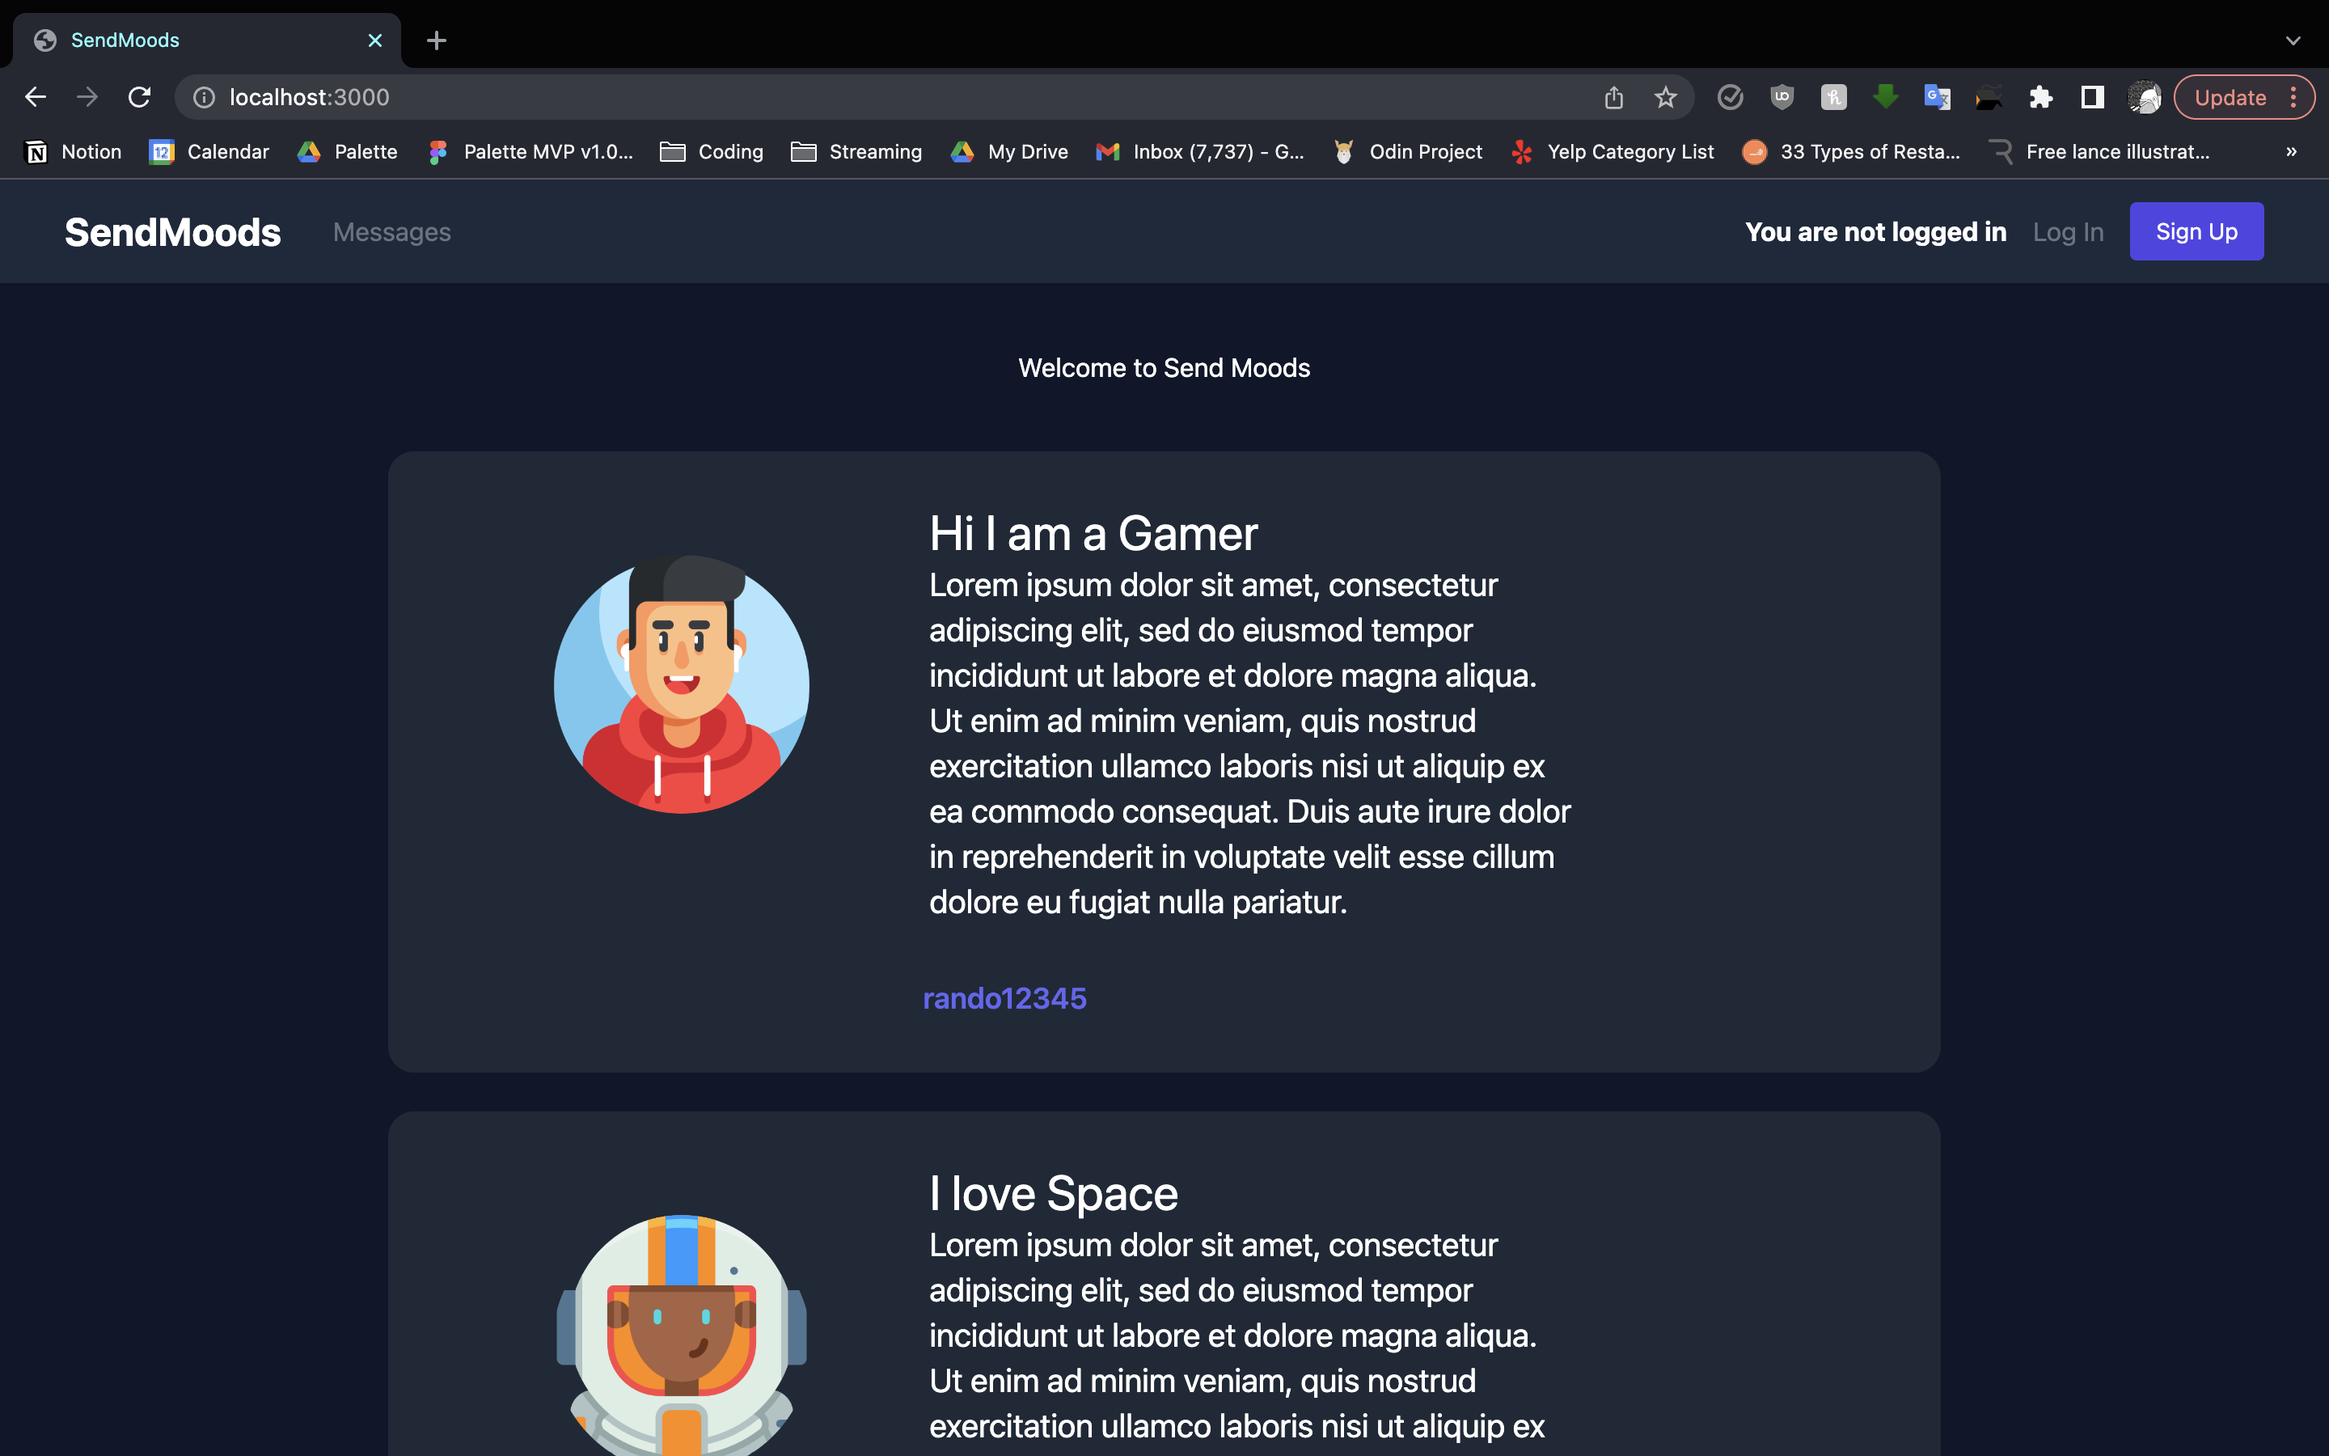
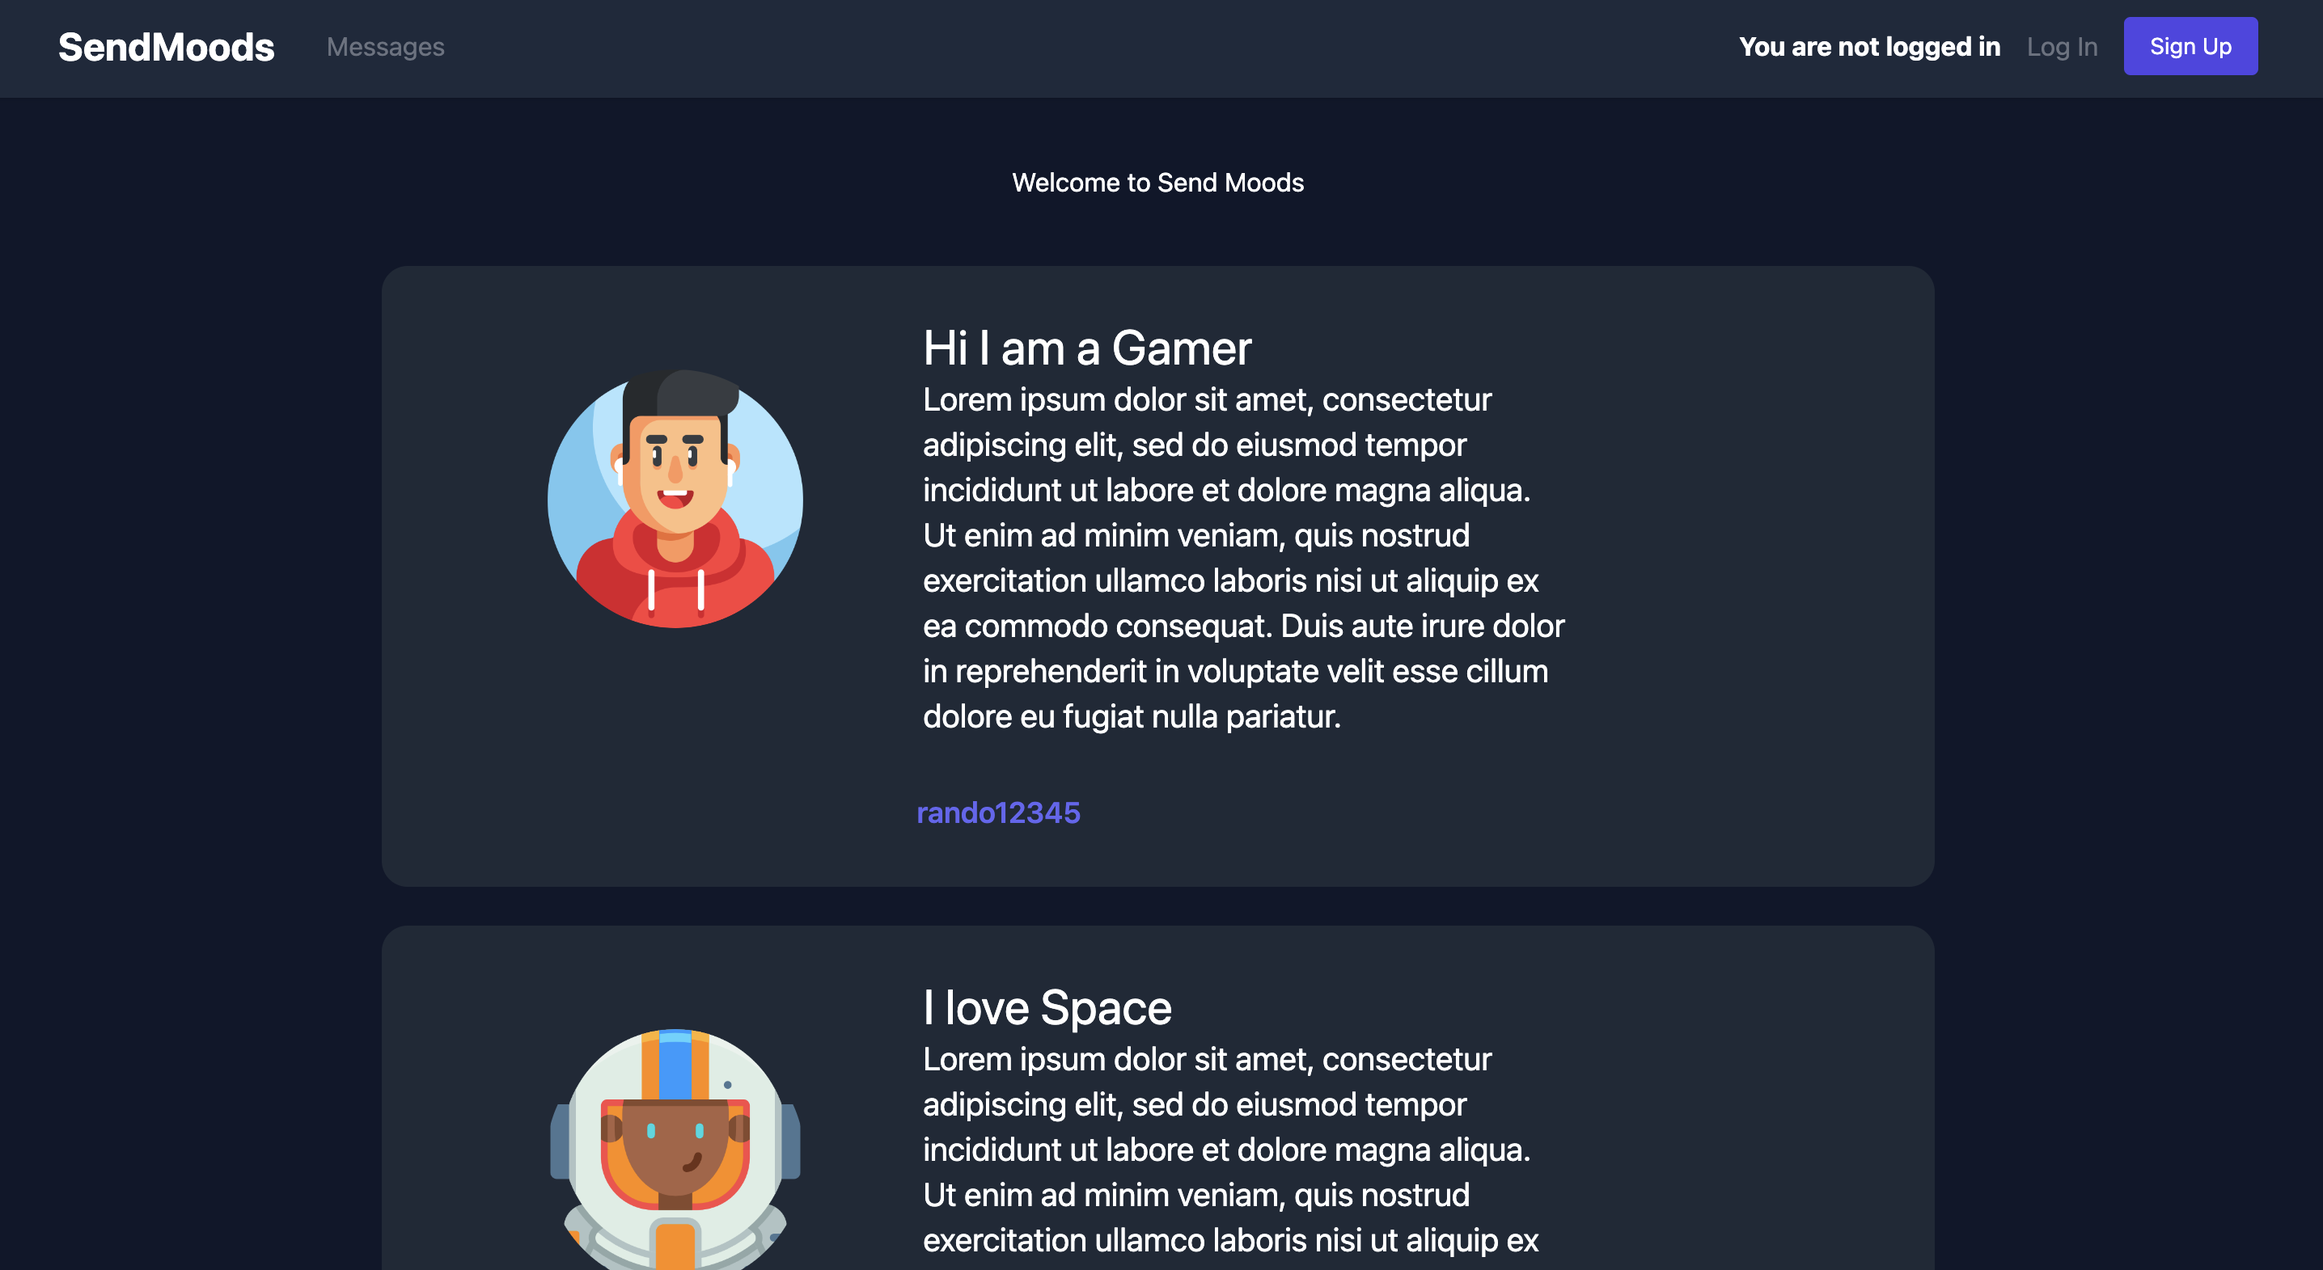
finished front end. Still need to fix routing for some links

diff --git a/src/pages/portfolio/Code/Code.tsx b/src/pages/portfolio/Code/Code.tsx
@@ -2,8 +2,6 @@ import React, { useState, useEffect, useRef } from "react";
 import iphonestock from "./images/iphoneStock.png";
 //@ts-ignore
 import hoverEffect from "hover-effect";
-import image from "./images/image.jpg";
-import image2 from "./images/image2.jpg";
 import overlay from "./images/overlay.png";
 import overlay2 from "./images/overlay2.png";
 import planetBackground from "./images/planetBackground.jpg";
@@ -11,21 +9,18 @@ import blogProject from "./images/blogProject.png";
 import blogProject2 from "./images/blogProject2.png";
 import membersOnly from "./images/membersOnly.png";
 import membersOnly2 from "./images/membersOnly2.png";
-
+import inventory from "./images/inventory.png";
+import inventory2 from "./images/inventory2.png";
+import shoppingCart from "./images/shoppingcart.png";
+import memoryCard from "./images/memoryCard.png";
+import weather from "./images/weatherApp.png";
+import task from "./images/task.png";
+import etchnsketch from "./images/etchnsketch.png";
 const code = () => {
-  // useEffect(() => {
-  //   var blogPhoto = new hoverEffect({
-  //     parent: document.querySelector("#blog-hover-photo"),
-  //     intensity: 0.3,
-  //     image1: blogProject,
-  //     image2: blogProject,
-  //     displacementImage: overlay,
-  //   });
-  // });
   useEffect(() => {
     var membersOnlyPhoto = new hoverEffect({
       parent: document.querySelector("#members-only-hover-photo"),
-      imagesRatio: 1,
+      imagesRatio: 0.3,
       intensity: 0.1,
       image1: membersOnly,
       image2: membersOnly2,
@@ -35,10 +30,70 @@ const code = () => {
   useEffect(() => {
     var image_animate = new hoverEffect({
       parent: document.querySelector("#blog-hover-photo"),
-      imagesRatio: 1,
+      imagesRatio: 0.4,
       intensity: 0.3,
       image1: blogProject,
       image2: blogProject2,
+      displacementImage: overlay,
+    });
+  });
+  useEffect(() => {
+    var image_animate = new hoverEffect({
+      parent: document.querySelector("#express-inventory-app"),
+      imagesRatio: 0.4,
+      intensity: 0.3,
+      image1: inventory2,
+      image2: inventory,
+      displacementImage: overlay,
+    });
+  });
+  useEffect(() => {
+    var image_animate = new hoverEffect({
+      parent: document.querySelector("#react-shopping-cart"),
+      imagesRatio: 0.4,
+      intensity: 0.3,
+      image1: shoppingCart,
+      image2: inventory,
+      displacementImage: overlay,
+    });
+  });
+  useEffect(() => {
+    var image_animate = new hoverEffect({
+      parent: document.querySelector("#memory-card"),
+      imagesRatio: 0.4,
+      intensity: 0.3,
+      image1: memoryCard,
+      image2: inventory,
+      displacementImage: overlay,
+    });
+  });
+  useEffect(() => {
+    var image_animate = new hoverEffect({
+      parent: document.querySelector("#weather-app"),
+      imagesRatio: 0.4,
+      intensity: 0.3,
+      image1: weather,
+      image2: inventory,
+      displacementImage: overlay,
+    });
+  });
+  useEffect(() => {
+    var image_animate = new hoverEffect({
+      parent: document.querySelector("#task-app"),
+      imagesRatio: 0.4,
+      intensity: 0.3,
+      image1: task,
+      image2: inventory,
+      displacementImage: overlay,
+    });
+  });
+  useEffect(() => {
+    var image_animate = new hoverEffect({
+      parent: document.querySelector("#etch-n-sketch"),
+      imagesRatio: 0.4,
+      intensity: 0.3,
+      image1: etchnsketch,
+      image2: inventory,
       displacementImage: overlay,
     });
   });
@@ -86,49 +141,91 @@ const code = () => {
             </div>
           </div>
         </div>
-      </div>
-      {/* <div className="w-full flex justify-center">
-        <div className="flex flex-col items-center  border border-gray-700 rounded-3xl backdrop-blur-3xl box-border p-10 bg-gradient-135 from-slate-900 to-transparent shadow sm:flex-row ">
-          <h4 className=" text-white absolute vertical-rl sm:visible invisible transform rotate-180">Members Only</h4>
-          <div className=" sm:h-[300px] sm:w-[700px] rounded-3xl overflow-hidden">
-            <div id="blog-hover-photo" className="h-full w-full" />
+        <div className=" mx-16 flex flex-col items-center border border-gray-700 rounded-3xl backdrop-blur-3xl box-border p-10 bg-gradient-135 from-slate-900 to-transparent shadow sm:flex-row ">
+          <div className=" sm:h-[300px] h-[250px] w-[200px]   sm:bg-auto sm:w-[800px] rounded-3xl overflow-hidden">
+            <div
+              id="express-inventory-app"
+              className=" flex justify-center items-center h-[300px] sm:h-[300px]  sm:w-full"
+            ></div>
           </div>
-          <div className="flex flex-col justify-between p-4 leading-normal">
-            <h5 className="mb-2 mx-16 w-1/2 text-2xl font-bold tracking-tight text-gray-900 dark:text-white">
-              Members Only
-            </h5>
-            <p className="mb-3 mx-16 font-normal text-gray-700 dark:text-gray-400">Members Only Project</p>
+          <div className="flex w-1/3 justify-center">
+            <div className="flex flex-col text-center  justify-center ">
+              <h5 className="mb-2 mt-8 sm:mt-0 sm:ml-6 ml-0 text-2xl font-bold text-white">Express Inventory App</h5>
+              <p className="mb-3  font-normal  sm:ml-6 ml-0 text-gray-400">Personal Inventory Application Project</p>
+            </div>
+          </div>
+        </div>
+        <div className=" mx-16 flex flex-col items-center border border-gray-700 rounded-3xl backdrop-blur-3xl box-border p-10 bg-gradient-135 from-slate-900 to-transparent shadow sm:flex-row ">
+          <div className=" sm:h-[300px] h-[250px] w-[200px]   sm:bg-auto sm:w-[800px] rounded-3xl overflow-hidden">
+            <div
+              id="react-shopping-cart"
+              className=" flex justify-center items-center h-[300px]  sm:h-[300px]  sm:w-full"
+            ></div>
+          </div>
+          <div className="flex w-1/3 justify-center">
+            <div className="flex flex-col text-center  justify-center ">
+              <h5 className="mb-2 mt-8 sm:mt-0 sm:ml-6 ml-0 text-2xl font-bold text-white">React Shopping Cart</h5>
+              <p className="mb-3  font-normal  sm:ml-6 ml-0 text-gray-400">Personal Shopping Cart Project</p>
+            </div>
+          </div>
+        </div>
+        <div className=" mx-16 flex flex-col items-center border border-gray-700 rounded-3xl backdrop-blur-3xl box-border p-10 bg-gradient-135 from-slate-900 to-transparent shadow sm:flex-row ">
+          <div className=" sm:h-[300px] h-[250px] w-[200px]   sm:bg-auto sm:w-[800px] rounded-3xl overflow-hidden">
+            <div
+              id="memory-card"
+              className=" flex justify-center items-center h-[300px]  sm:h-[300px]  sm:w-full"
+            ></div>
+          </div>
+          <div className="flex w-1/3 justify-center">
+            <div className="flex flex-col text-center  justify-center ">
+              <h5 className="mb-2 mt-8 sm:mt-0 sm:ml-6 ml-0 text-2xl font-bold text-white">Memory Card Game</h5>
+              <p className="mb-3  font-normal  sm:ml-6 ml-0 text-gray-400">Personal Memory Card Project</p>
+            </div>
+          </div>
+        </div>
+        <div className=" mx-16 flex flex-col items-center border border-gray-700 rounded-3xl backdrop-blur-3xl box-border p-10 bg-gradient-135 from-slate-900 to-transparent shadow sm:flex-row ">
+          <div className=" sm:h-[300px] h-[250px] w-[200px]   sm:bg-auto sm:w-[800px] rounded-3xl overflow-hidden">
+            <div
+              id="weather-app"
+              className=" flex justify-center items-center h-[300px] sm:bg-top sm:h-[300px]  sm:w-full"
+            ></div>
+          </div>
+          <div className="flex w-1/3 justify-center">
+            <div className="flex flex-col text-center  justify-center ">
+              <h5 className="mb-2 mt-8 sm:mt-0 sm:ml-6 ml-0 text-2xl font-bold text-white">Weather App</h5>
+              <p className="mb-3  font-normal  sm:ml-6 ml-0 text-gray-400">Personal Weather App Project</p>
+            </div>
+          </div>
+        </div>
+        <div className=" mx-16 flex flex-col items-center border border-gray-700 rounded-3xl backdrop-blur-3xl box-border p-10 bg-gradient-135 from-slate-900 to-transparent shadow sm:flex-row ">
+          <div className=" sm:h-[300px] h-[250px] w-[200px]   sm:bg-auto sm:w-[800px] rounded-3xl overflow-hidden">
+            <div
+              id="task-app"
+              className=" flex justify-center items-center h-[300px] sm:bg-top sm:h-[300px]  sm:w-full"
+            ></div>
+          </div>
+          <div className="flex w-1/3 justify-center">
+            <div className="flex flex-col text-center  justify-center ">
+              <h5 className="mb-2 mt-8 sm:mt-0 sm:ml-6 ml-0 text-2xl font-bold text-white">Task App</h5>
+              <p className="mb-3  font-normal  sm:ml-6 ml-0 text-gray-400">Personal Task App Project</p>
+            </div>
+          </div>
+        </div>
+        <div className=" mx-16 flex flex-col items-center border border-gray-700 rounded-3xl backdrop-blur-3xl box-border p-10 bg-gradient-135 from-slate-900 to-transparent shadow sm:flex-row ">
+          <div className=" sm:h-[300px] h-[250px] w-[200px]   sm:bg-auto sm:w-[800px] rounded-3xl overflow-hidden">
+            <div
+              id="etch-n-sketch"
+              className=" flex justify-center items-center h-[300px] sm:bg-top sm:h-[300px]  sm:w-full"
+            ></div>
+          </div>
+          <div className="flex w-1/3 justify-center">
+            <div className="flex flex-col text-center  justify-center ">
+              <h5 className="mb-2 mt-8 sm:mt-0 sm:ml-6 ml-0 text-2xl font-bold text-white">Etch N' Sketch</h5>
+              <p className="mb-3  font-normal  sm:ml-6 ml-0 text-gray-400">Personal Etch N' Sketch Project</p>
+            </div>
           </div>
         </div>
       </div>
-      <div className="w-full flex justify-center">
-        <div className="flex flex-col items-center  border border-gray-700 rounded-3xl backdrop-blur-3xl box-border p-10 bg-gradient-135 from-slate-900 to-transparent shadow sm:flex-row ">
-          <h4 className=" text-white absolute vertical-rl sm:visible invisible transform rotate-180">Inventory</h4>
-          <div className=" sm:h-[300px] sm:w-[700px] rounded-3xl overflow-hidden">
-            <div id="blog-hover-photo" className="h-full w-full" />
-          </div>
-          <div className="flex flex-col justify-between p-4 leading-normal">
-            <h5 className="mb-2 mx-16 w-1/2 text-2xl font-bold tracking-tight text-gray-900 dark:text-white">
-              Inventory
-            </h5>
-            <p className="mb-3 mx-16 font-normal text-gray-700 dark:text-gray-400">Personal Inventory Project</p>
-          </div>
-        </div>
-      </div>
-      <div className="w-full flex justify-center">
-        <div className="flex flex-col items-center  border border-gray-700 rounded-3xl backdrop-blur-3xl box-border p-10 bg-gradient-135 from-slate-900 to-transparent shadow sm:flex-row ">
-          <h4 className=" text-white absolute vertical-rl sm:visible invisible transform rotate-180">Task Organizer</h4>
-          <div className=" sm:h-[300px] sm:w-[700px] rounded-3xl overflow-hidden">
-            <div id="blog-hover-photo" className="h-full w-full" />
-          </div>
-          <div className="flex flex-col justify-between p-4 leading-normal">
-            <h5 className="mb-2 mx-16 w-1/2 text-2xl font-bold tracking-tight text-gray-900 dark:text-white">
-              Task Organizer
-            </h5>
-            <p className="mb-3 mx-16 font-normal text-gray-700 dark:text-gray-400">Personal Task Organizer Project</p>
-          </div>
-        </div>
-      </div> */}
     </div>
   );
 };

diff --git a/src/components/Nav/Navbar.tsx b/src/components/Nav/Navbar.tsx
@@ -68,7 +68,7 @@ const Navbar: React.FC = () => {
             </button>
           </div>
           <ul
-            className={`md:flex text-center md:pb-0 pb-12 absolute md:static md:z-auto z-[-1] w-full md:w-auto pr-8 transition-all duration-500 ease-in ${
+            className={`md:flex text-center md:pb-0 pb-8 absolute md:static md:z-auto z-[-1] w-full md:w-auto pr-8 transition-all duration-500 ease-in ${
               navOpen ? "top-20 " : "top-[-490px]"
             }`}
           >
@@ -76,7 +76,7 @@ const Navbar: React.FC = () => {
               {sections.map((link, index) => {
                 if (link.path.startsWith("/")) {
                   return (
-                    <div key={index} className="md:ml-8 text-white text-xl md:my-0 my-7">
+                    <div key={index} className="md:ml-8 text-white text-xl md:my-0 ">
                       <Link
                         to={link.path}
                         className="[text-shadow:_0_1px_0_rgb(0_0_0_/_60%)] text-gray-400 hover:text-white duration-500"
@@ -154,7 +154,7 @@ const Navbar: React.FC = () => {
             </Menu>
             {links.map((link: DirectLink, index) => {
               return (
-                <div key={index} className="md:ml-8  text-white text-xl md:my-0 my-7">
+                <div key={index} className="md:ml-8  mr-7 text-white text-xl md:my-0 mt-7">
                   <a
                     href={link.href}
                     className="[text-shadow:_0_1px_0_rgb(0_0_0_/_60%)] text-gray-400 hover:text-white duration-500"

diff --git a/src/pages/portfolio/UI_UX/UI_UX.tsx b/src/pages/portfolio/UI_UX/UI_UX.tsx
@@ -2,7 +2,8 @@ import React, { useState, useEffect, useRef } from "react";
 import iphonestock from "./images/iphoneStock.png";
 //@ts-ignore
 import hoverEffect from "hover-effect";
-import image from "./images/image.jpg";
+import postItImage2 from "./images/postItUI2.png";
+import postItImage from "./images/postItUI.jpg";
 import image2 from "./images/image2.jpg";
 import overlay from "./images/overlay.png";
 import "./styles/ui-ux.css";
@@ -10,19 +11,10 @@ import "./styles/ui-ux.css";
 const UI_UX = () => {
   useEffect(() => {
     var image_animate = new hoverEffect({
-      parent: document.querySelector("#item-image"),
-      intensity: 0.3,
-      image1: image,
-      image2: image2,
-      displacementImage: overlay,
-    });
-  });
-  useEffect(() => {
-    var image_animate = new hoverEffect({
       parent: document.querySelector("#postit-image"),
       intensity: 0.3,
-      image1: image,
-      image2: image2,
+      image1: postItImage,
+      image2: postItImage2,
       displacementImage: overlay,
     });
   });
@@ -46,7 +38,7 @@ const UI_UX = () => {
             <a
               href="/portfolio/ui_ux/postit"
               id="postit-image"
-              className="bg-no-repeat flex justify-center items-center h-[300px]  sm:h-[300px]  sm:w-full"
+              className="bg-no-repeat flex justify-center items-center h-[300px] sm:h-[300px]  sm:w-fulla"
             ></a>
           </div>
           <div className="flex w-1/3 justify-center">

diff --git a/src/components/MyPortfolio.tsx b/src/components/MyPortfolio.tsx
@@ -1,7 +1,7 @@
 import React from "react";
 import { useInView } from "react-intersection-observer";
 import { Images } from "../pages/portfolio/Portfolio.json";
-import screenShot1 from "/Code/images/CodingSample.jpg";
+import screenShot1 from "/Code/images/Coding.png";
 import screenShot2 from "/UI-UX/images/TravelWebsite.png";
 import screenShot3 from "/ArtCatalog/Akira.jpg";
 import screenShot4 from "/ArchCatalog/4.jpg";
